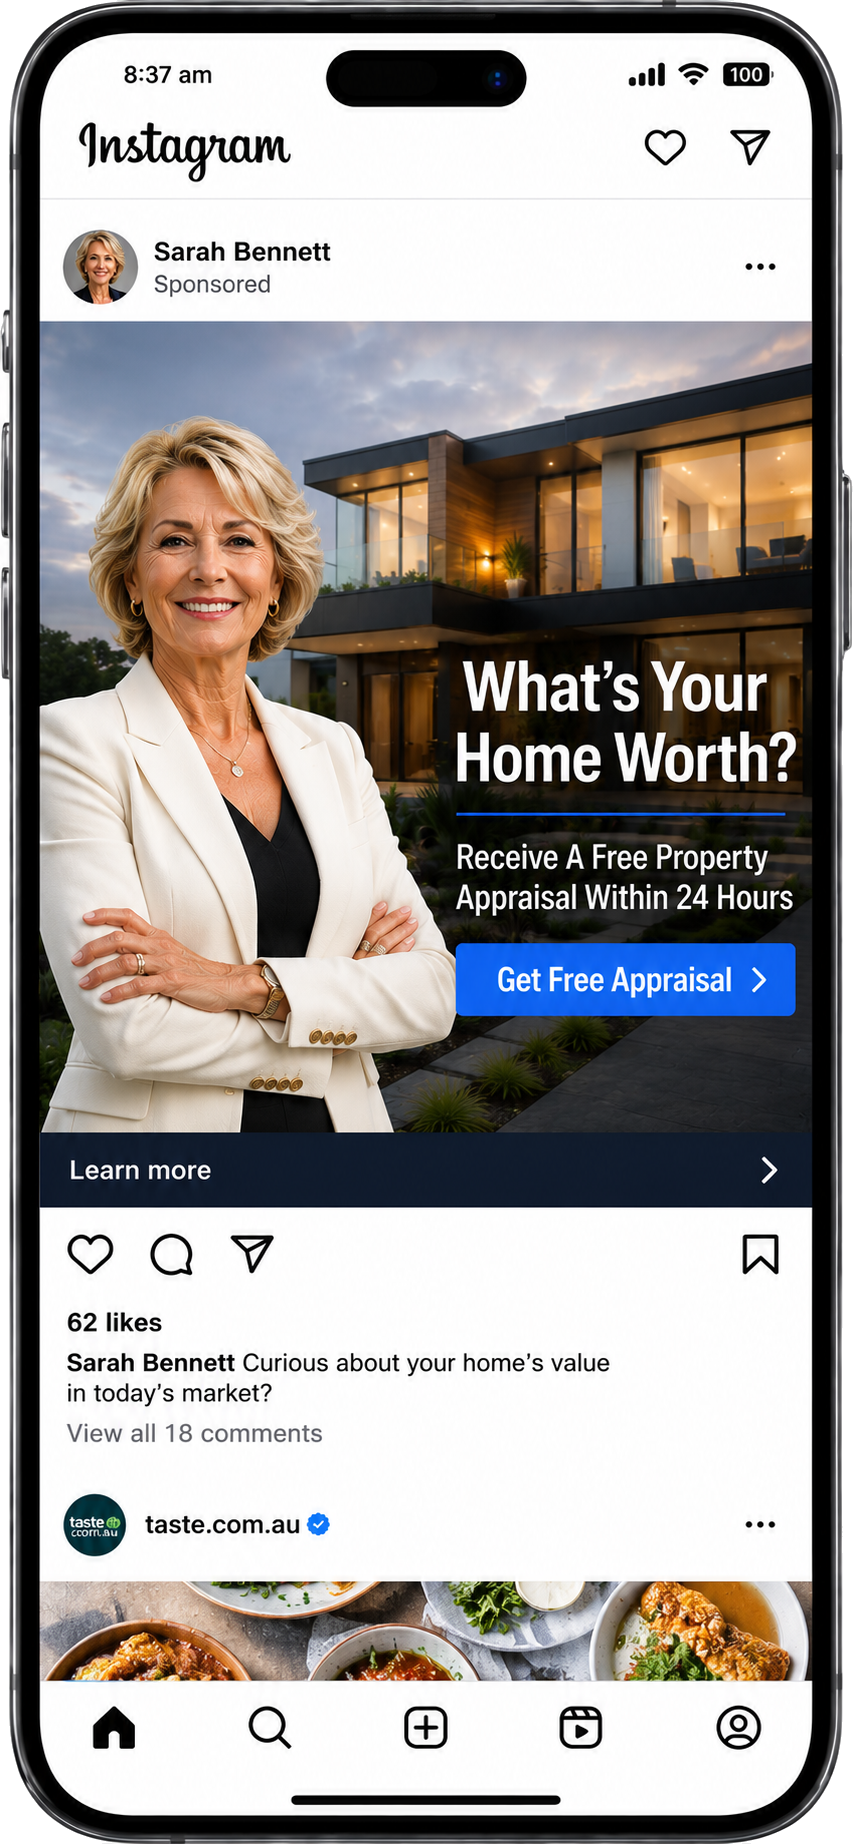
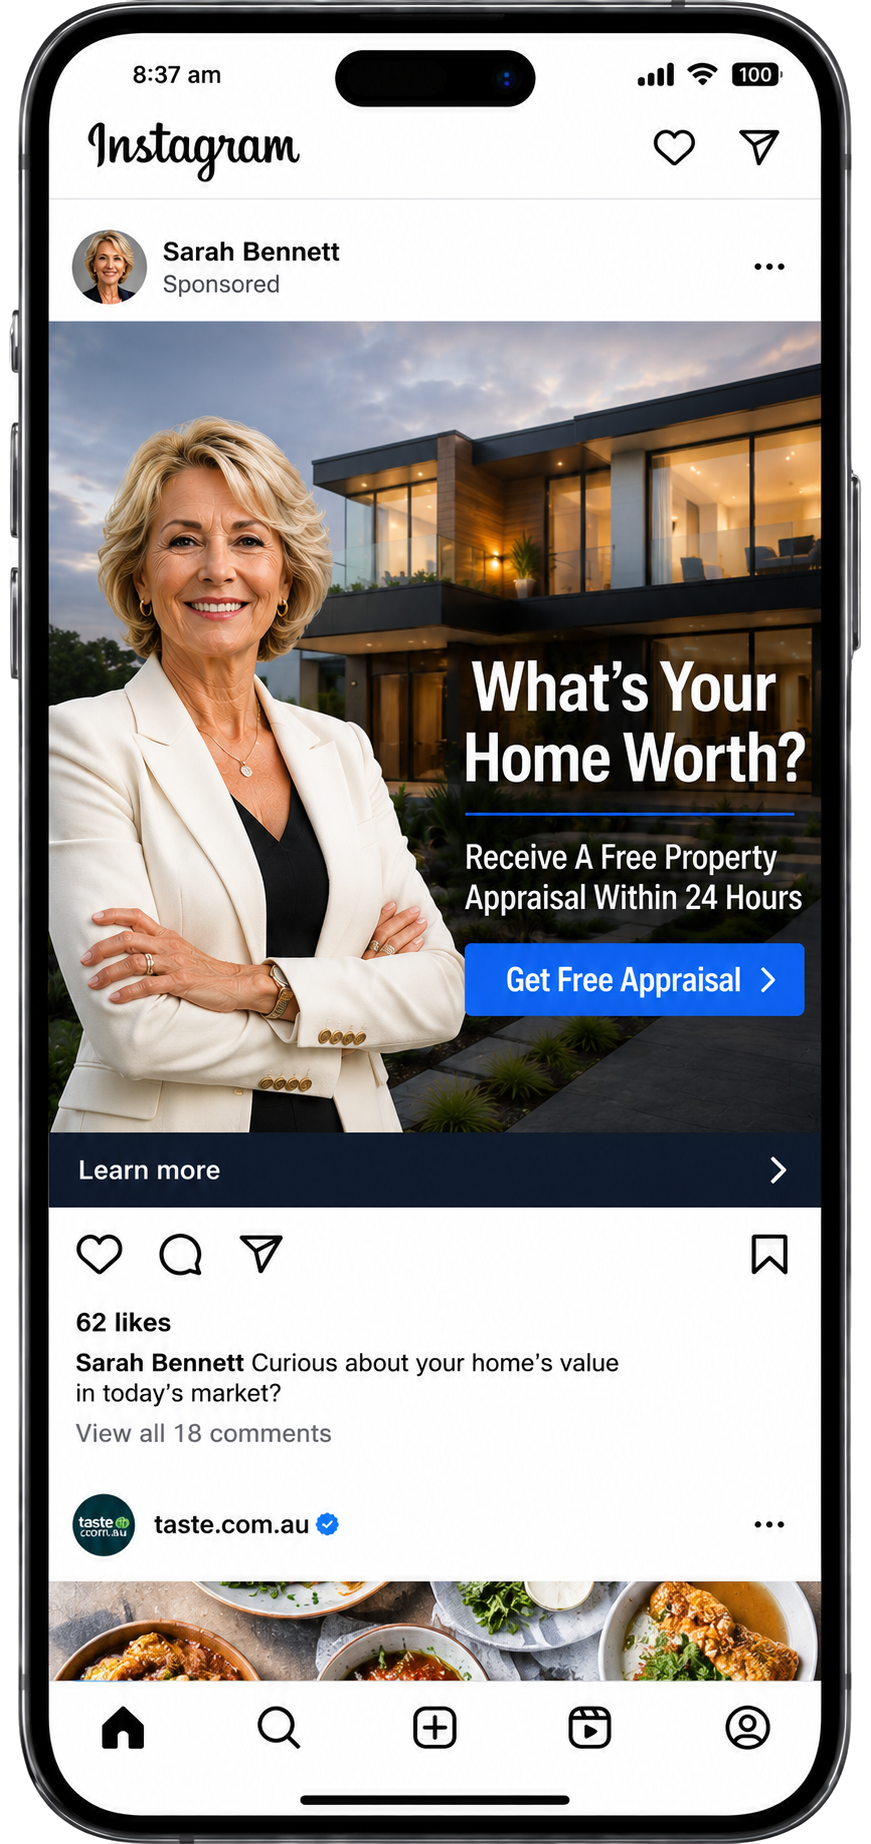
Standardise all 4 ad mockups to identical 871x1844 canvas
Resize each phone image onto a uniform transparent canvas so they render
at exactly the same dimensions in the browser (212x458 verified).

diff --git a/components/AdShowcase.tsx b/components/AdShowcase.tsx
@@ -13,26 +13,26 @@ type Slide = {
 const slides: Slide[] = [
   {
     src: "/images/ad-1.png",
-    width: 853,
+    width: 871,
     height: 1844,
     alt: "Instagram ad for a real estate agent asking 'What's your home worth?' with a free property appraisal call-to-action",
   },
   {
     src: "/images/ad-2.png",
-    width: 864,
-    height: 1821,
+    width: 871,
+    height: 1844,
     alt: "Facebook lead-form ad for a real estate agent offering a free property appraisal within 24 hours",
   },
   {
     src: "/images/ad-3.png",
-    width: 853,
+    width: 871,
     height: 1844,
     alt: "Facebook ad for a real estate agent asking homeowners 'What's your home worth?' in their suburb",
   },
   {
     src: "/images/ad-4.png",
     width: 871,
-    height: 1806,
+    height: 1844,
     alt: "Facebook feed ad for a real estate agent promoting a free home appraisal alongside local property news",
   },
 ];
